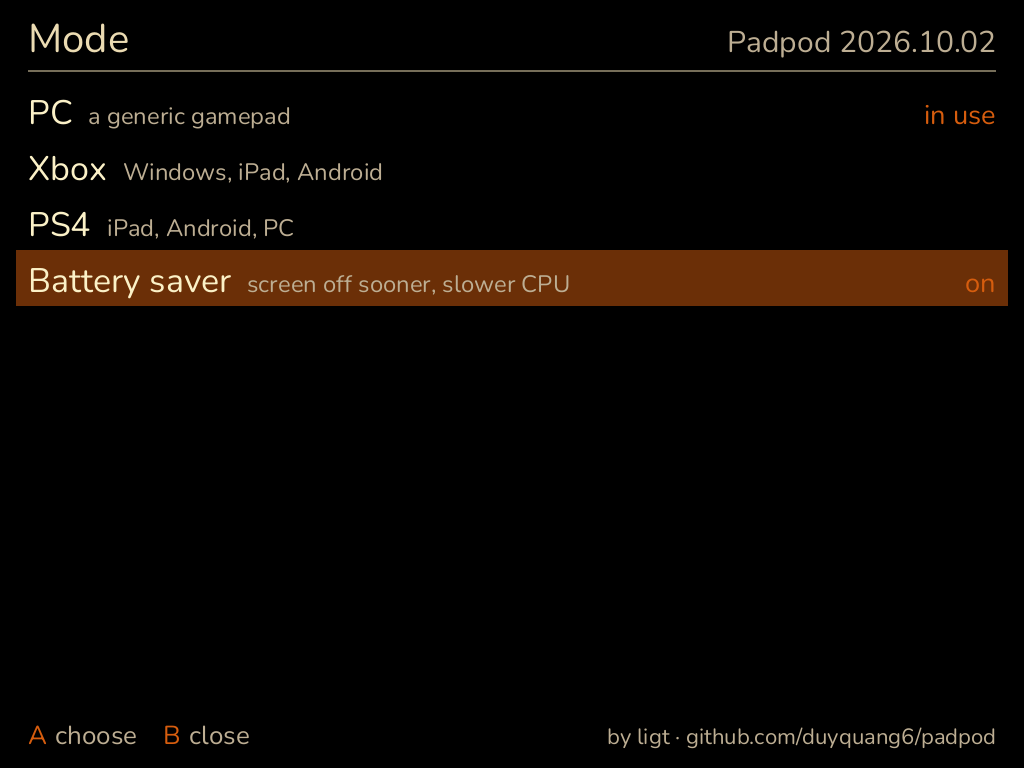
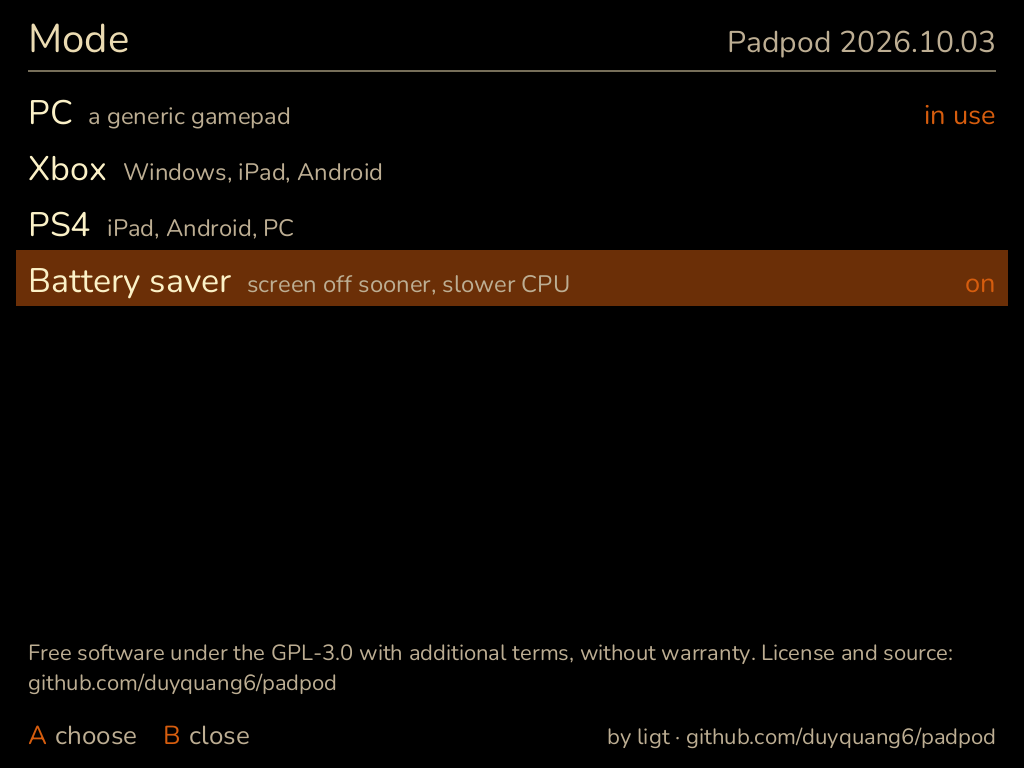
Release 2026.10.03 is GPL-3.0 too; the menu screenshot shows the notice

Changed region(s): [[0.0312, 0.8438, 0.9375, 0.9062]]

diff --git a/README.md b/README.md
@@ -86,8 +86,8 @@ the same terms, with its source. The additional terms ask that:
 The release archives may be shared as they are; whoever shares them must
 also offer their source (the release's tag here) and keep these terms with
 them. The SHA-256 checksums on each release page let anyone check that an
-archive is the official one. Releases 2026.10.02 and 2026.10.03 were published
-under the PolyForm Noncommercial License 1.0.0.
+archive is the official one. Release 2026.10.02 was published under the
+PolyForm Noncommercial License 1.0.0.
 
 ## Copying, AI and "vibe code"
 

diff --git a/ADDITIONAL-TERMS.md b/ADDITIONAL-TERMS.md
@@ -31,5 +31,5 @@ conveys Padpod or a work based on it must convey these terms too.
    must be distributed under a different name; it may say that it is based
    on Padpod.
 
-The releases 2026.10.02 and 2026.10.03 were published under the PolyForm
-Noncommercial License 1.0.0, and those archives carry those terms.
+The release 2026.10.02 was published under the PolyForm Noncommercial
+License 1.0.0, and its archives carry those terms.
